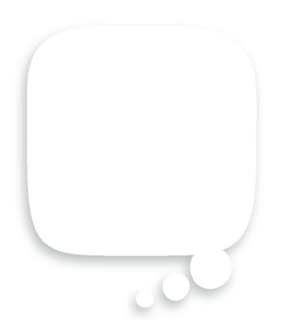
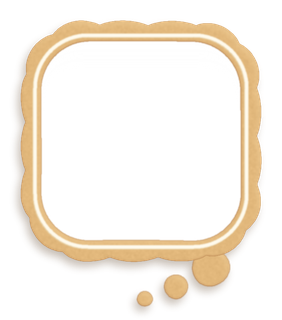
Order bubble: K3, the glass inside a scalloped biscuit rim with a white piped icing line (owner: use K3, ship it); same canvas, place and trail

Changed region(s): [[0.0567, 0.0625, 0.9362, 0.9375], [0.4823, 0.9062, 0.539, 0.9688]]

diff --git a/Assets/Scripts/ItemsAndOrders/OrderSystem.cs b/Assets/Scripts/ItemsAndOrders/OrderSystem.cs
@@ -273,6 +273,8 @@ public class OrderSystem : MonoBehaviour
         bubble.transform.localPosition = new Vector3(at.x, at.y, z);
         bubble.transform.localScale = Vector3.one;
         sr.color = Color.white;   // the old line art was tinted grey; the glass is painted in its own colours
+        // since 27 November 2026 the pictures are K3: the glass inside a scalloped biscuit rim with a white piped icing
+        // line (owner: "use K3 for bubbles, ship it"; Store/bubble_2026-11-26/paint_cookierim.py), same canvas and place
     }
 
     /// Each food sits in the middle of its spot by its drawn part (the pictures' empty edges are not even): the drawn
